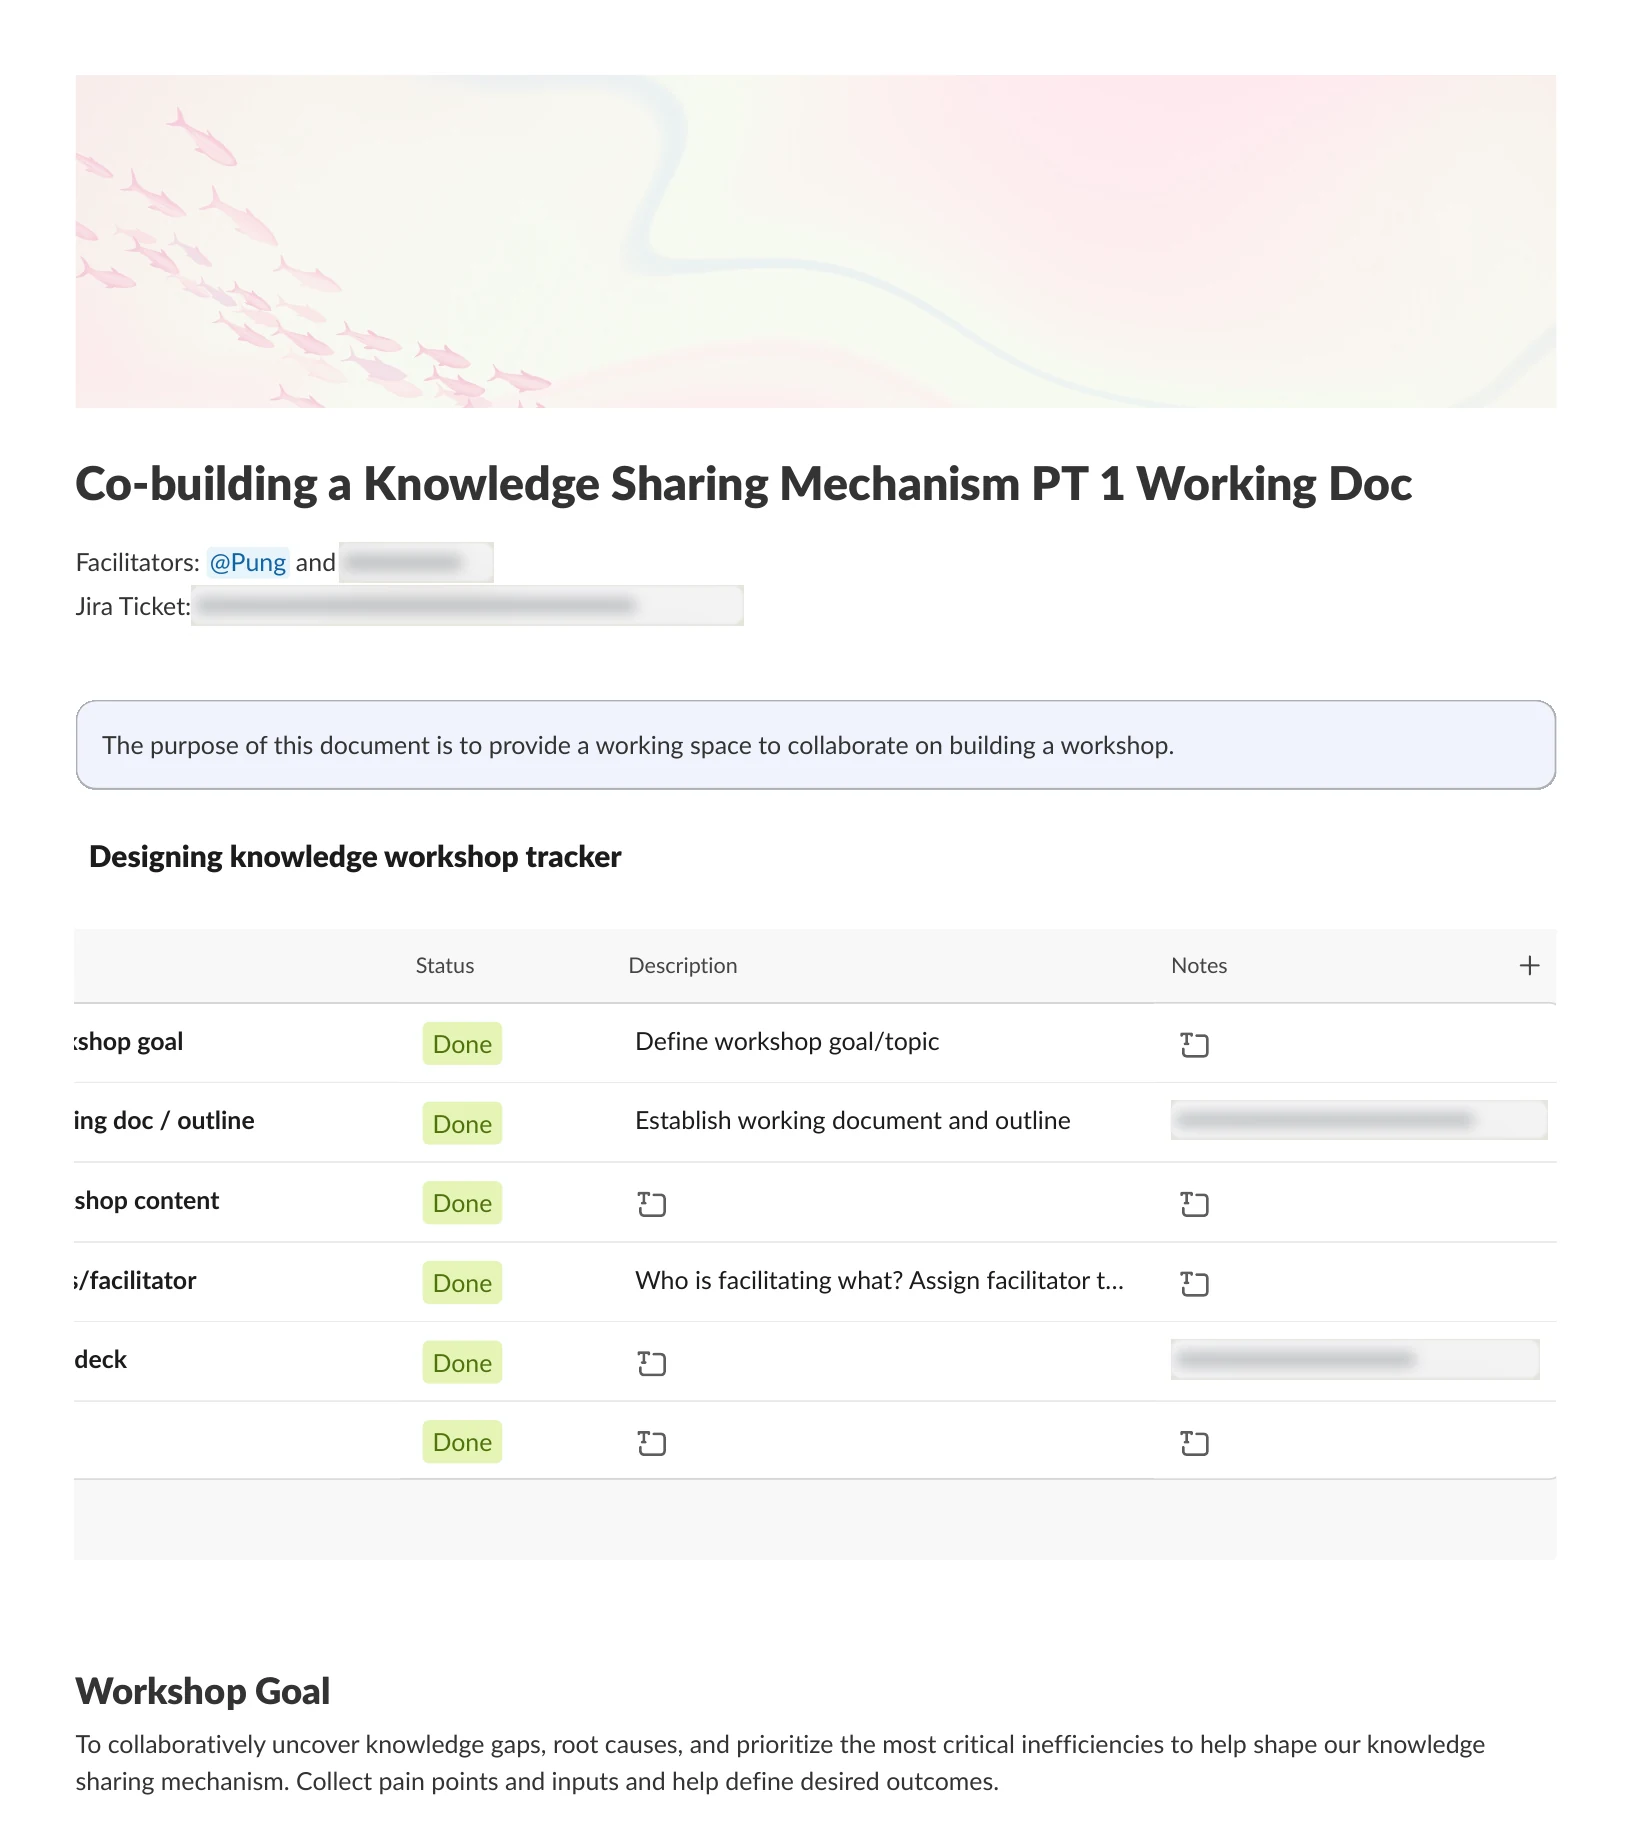
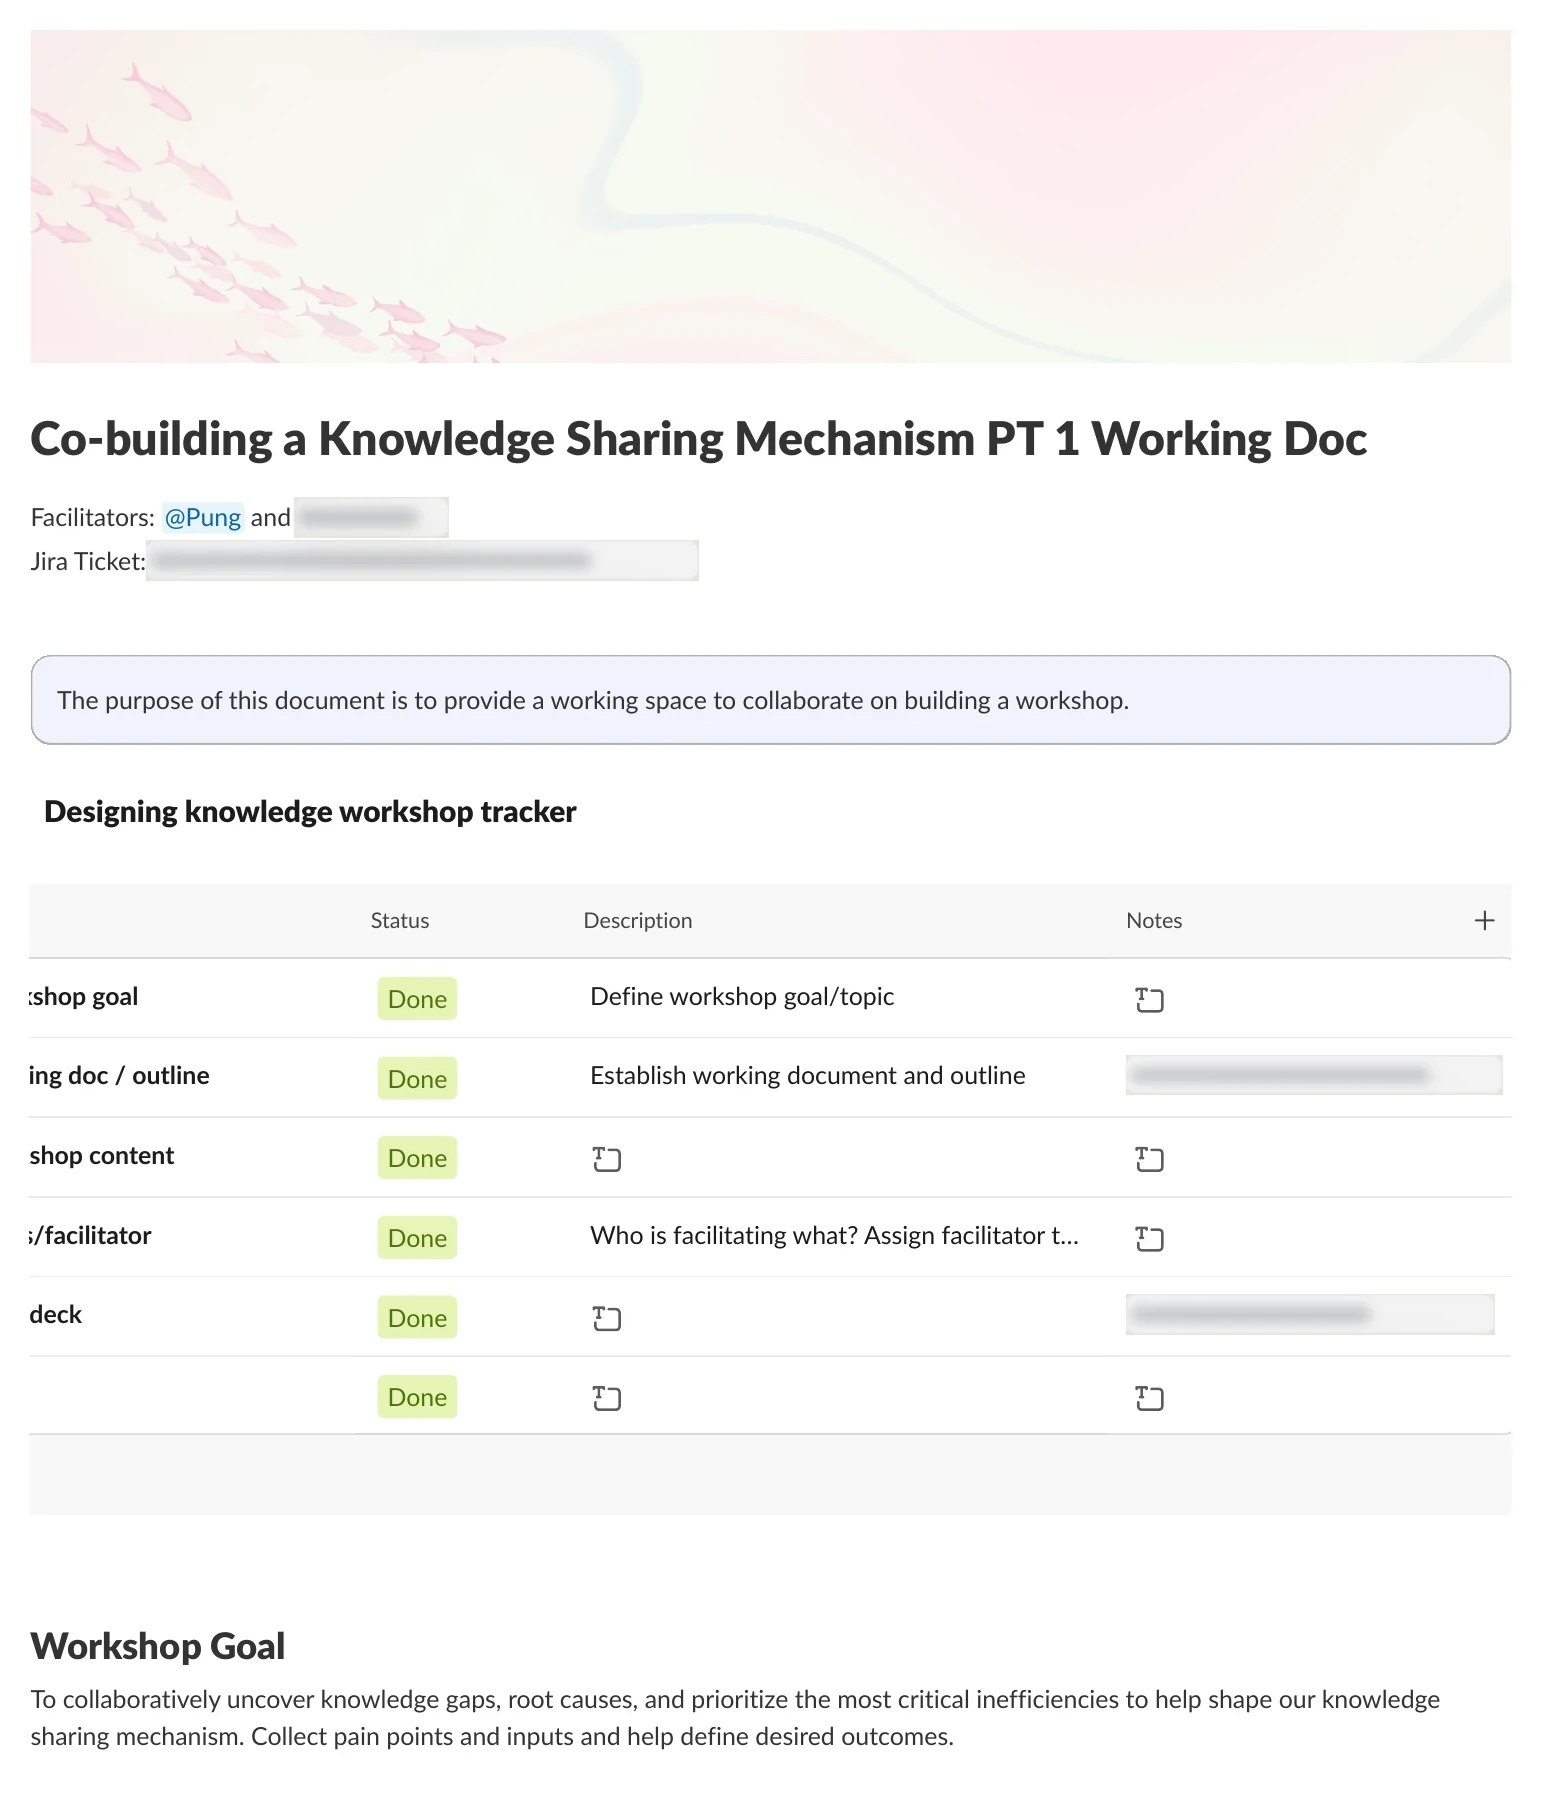
Frame document screenshots as Slack canvas windows
Claude-Session: https://claude.ai/code/session_01HAnvLrxAh4Wznvy4Cj8Sx4

diff --git a/src/styles/global.css b/src/styles/global.css
@@ -448,6 +448,70 @@ a.external::after {
 }
 .visual--inline img { max-width: var(--measure); }
 
+/* Document screenshots (Slack canvases) sit in an app window with a title bar and a white
+   page, so they read as documents rather than UI. The page is an excerpt: it is capped in height
+   and fades out at the bottom, the way a document continues below the fold. */
+.doc {
+  width: 100%;
+  margin-inline: auto;
+  overflow: hidden;
+  border-radius: 12px;
+  background: #fff;
+  box-shadow: 0 0 0 1px rgba(22, 22, 22, 0.08), 0 30px 60px -30px rgba(20, 20, 50, 0.45);
+}
+.doc__bar {
+  display: flex;
+  align-items: center;
+  gap: 14px;
+  padding: 10px 16px;
+  border-bottom: 1px solid rgba(22, 22, 22, 0.08);
+  background: #f4f3f1;
+  font-size: 0.75rem;
+  line-height: 1.3;
+  color: rgba(22, 22, 22, 0.72);
+}
+.doc__dots { display: flex; flex: none; gap: 6px; }
+.doc__dots i { width: 10px; height: 10px; border-radius: 50%; background: #d9d7d3; }
+.doc__title {
+  display: flex;
+  align-items: center;
+  gap: 8px;
+  min-width: 0;
+  font-weight: 600;
+  color: var(--ink);
+}
+.doc__title::before {
+  content: "";
+  flex: none;
+  width: 12px;
+  height: 15px;
+  border-radius: 2px;
+  background: linear-gradient(#fff 0 0) 3px 4px / 6px 1.5px no-repeat,
+    linear-gradient(#fff 0 0) 3px 7.5px / 6px 1.5px no-repeat,
+    linear-gradient(#fff 0 0) 3px 11px / 4px 1.5px no-repeat, #4a6cf7;
+}
+.doc__title span { overflow: hidden; white-space: nowrap; text-overflow: ellipsis; }
+.doc__app { flex: none; margin-left: auto; font-family: var(--font-mono); font-size: 0.6875rem; }
+.doc__page {
+  position: relative;
+  max-height: 860px;
+  overflow: hidden;
+  padding: clamp(12px, 4%, 40px) clamp(12px, 5%, 56px) 0;
+}
+.doc__page::after {
+  content: "";
+  position: absolute;
+  inset: auto 0 0;
+  height: 90px;
+  background: linear-gradient(rgba(255, 255, 255, 0), #fff);
+}
+.visual .doc__page img { border-radius: 0; box-shadow: none; max-width: none; }
+@media (max-width: 599px) {
+  .doc__app { display: none; }
+  .doc__page { max-height: 520px; padding: 8px 6px 0; }
+  .doc__page::after { height: 60px; }
+}
+
 .visual figcaption {
   max-width: var(--measure);
   margin-inline: auto;

diff --git a/src/content/projects/04-zenni-working-docs.md b/src/content/projects/04-zenni-working-docs.md
@@ -104,14 +104,20 @@ I turned those canvases into a template the team could adopt. The idea was to gi
 Putting the purpose, background and tenets first made the understanding part of a problem hard to skip.
 
 <figure class="visual visual--wide">
-<img src="/images/work/zenni-order-tracking/working-doc-canvas.webp" alt="The Enhanced Order Tracking UX Working Doc in Slack: a header illustration of glasses moving from lab to box to home, the purpose of the document, background with the squad's vision, and the UX tenets." loading="lazy" />
+<div class="doc">
+<div class="doc__bar" aria-hidden="true"><span class="doc__dots"><i></i><i></i><i></i></span><span class="doc__title"><span>WebEx: Enhanced Order Tracking UX Working Doc</span></span><span class="doc__app">Slack canvas</span></div>
+<div class="doc__page"><img src="/images/work/zenni-order-tracking/working-doc-canvas.webp" alt="The Enhanced Order Tracking UX Working Doc in Slack: a header illustration of glasses moving from lab to box to home, the purpose of the document, background with the squad's vision, and the UX tenets." loading="lazy" /></div>
+</div>
 <figcaption>The Order Tracking UX working doc, built from the template. Names are hidden.</figcaption>
 </figure>
 
 The same structure stretched to very different work. <a href="/work/zenni-order-tracking/">Order Tracking</a> used it for a launch: the working doc, the design jam and its follow-up, the messaging framework and a recorded prototype walkthrough. Multi-Profile Shopping used it for an idea that was little more than a goal, and the doc turned it into a north star, working tenets, and two tracks of UX work with desired outcomes, metrics and the evidence of success we’d look for.
 
 <figure class="visual">
-<img style="max-width: 720px" src="/images/work/zenni-account/multi-profile-canvas.webp" alt="The Multi-Profile Shopping working doc: a dual-track UX strategy, and a table for Track 1, validate customer demand through labeling, with focus areas Organization, Workflow Efficiency and Business Value, each with a desired outcome, KPIs and evidence of success." loading="lazy" />
+<div class="doc" style="max-width: 720px">
+<div class="doc__bar" aria-hidden="true"><span class="doc__dots"><i></i><i></i><i></i></span><span class="doc__title"><span>Multi-Profile Shopping</span></span><span class="doc__app">Slack canvas</span></div>
+<div class="doc__page"><img src="/images/work/zenni-account/multi-profile-canvas.webp" alt="The Multi-Profile Shopping working doc: a dual-track UX strategy, and a table for Track 1, validate customer demand through labeling, with focus areas Organization, Workflow Efficiency and Business Value, each with a desired outcome, KPIs and evidence of success." loading="lazy" /></div>
+</div>
 <figcaption>The template on an early, ambiguous idea: Multi-Profile Shopping, 2026.</figcaption>
 </figure>
 
@@ -122,7 +128,10 @@ Adoption was the hard part, not the template.
 Before asking anyone else to change, I wanted to understand what the team actually struggled with. I co-facilitated a workshop with a UX colleague to co-build a knowledge sharing mechanism with the team, instead of handing one down. We introduced what a mechanism is, a tool plus adoption, inspection and iteration, then collected pain points, dug into the top ones with Five Whys, and sorted them into major time sinks and quick wins.
 
 <figure class="visual visual--wide">
-<img src="/images/work/zenni-working-docs/knowledge-workshop-canvas.webp" alt="The Co-building a Knowledge Sharing Mechanism PT 1 Working Doc in Slack: facilitators, the purpose of the document, a workshop tracker with every task marked Done, the workshop goal, and the start of the agenda." loading="lazy" />
+<div class="doc">
+<div class="doc__bar" aria-hidden="true"><span class="doc__dots"><i></i><i></i><i></i></span><span class="doc__title"><span>Co-building a Knowledge Sharing Mechanism PT 1 Working Doc</span></span><span class="doc__app">Slack canvas</span></div>
+<div class="doc__page"><img src="/images/work/zenni-working-docs/knowledge-workshop-canvas.webp" alt="The Co-building a Knowledge Sharing Mechanism PT 1 Working Doc in Slack: facilitators, the purpose of the document, a workshop tracker with every task marked Done, the workshop goal, and the start of the agenda." loading="lazy" /></div>
+</div>
 <figcaption>The workshop was planned in a working doc of its own, late 2025. Names and links are hidden.</figcaption>
 </figure>
 
@@ -145,7 +154,10 @@ The same habit, on a bigger question.
 The reorganization came from leadership wanting to replace squads with teams organized by delivery speed. I wrote a discussion starter for the UX team and D2C leaders on organizing designers by strategic domain instead. It said up front what it was, a discussion starter, and what it was not, a proposal to throw away our current structure. Peer reviewers added their thinking directly in the doc. Writing the argument out, in the open, is how I bring people along before asking them to agree.
 
 <figure class="visual visual--wide">
-<img src="/images/work/zenni-working-docs/org-discussion-canvas.webp" alt="The UX Organization Discussion: Optimizing Velocity via Strategic Domains canvas: author Pung Brooks, audience UX team and D2C leaders, stakeholders, peer reviewers, and the lines what this document is, a discussion starter, and what it is not, a proposal to throw away our current structure." loading="lazy" />
+<div class="doc">
+<div class="doc__bar" aria-hidden="true"><span class="doc__dots"><i></i><i></i><i></i></span><span class="doc__title"><span>UX Organization Discussion: Optimizing Velocity via Strategic Domains</span></span><span class="doc__app">Slack canvas</span></div>
+<div class="doc__page"><img src="/images/work/zenni-working-docs/org-discussion-canvas.webp" alt="The UX Organization Discussion: Optimizing Velocity via Strategic Domains canvas: author Pung Brooks, audience UX team and D2C leaders, stakeholders, peer reviewers, and the lines what this document is, a discussion starter, and what it is not, a proposal to throw away our current structure." loading="lazy" /></div>
+</div>
 <figcaption>A discussion starter written for the UX team and D2C leaders. Names are hidden.</figcaption>
 </figure>
 

diff --git a/src/content/projects/03-zenni-order-tracking.md b/src/content/projects/03-zenni-order-tracking.md
@@ -129,7 +129,10 @@ Before designing, I ran “The 20-Minute Order Tracking Design Jam”. The promp
 Ten teammates took part. The follow-up lived in a Slack canvas too: the goal, everyone’s sketches side by side, and an affinity map that grouped the ideas into four themes: information hierarchy and clarity, brand voice and delight, transparency and proactive communication, and friction in the interface. It also kept the open questions in view, like whether people care that something is en route to a distribution center, and how we talk about China.
 
 <figure class="visual">
-<img style="max-width: 640px" src="/images/work/zenni-order-tracking/design-jam-canvas.webp" alt="The Order Tracking UX Jam canvas in Slack: the goal of crowdsourcing the team's mental models of an ideal order tracking experience, the date October 14, 2025, and a Figma board with each participant's tracker sketches in a grid." loading="lazy" />
+<div class="doc" style="max-width: 640px">
+<div class="doc__bar" aria-hidden="true"><span class="doc__dots"><i></i><i></i><i></i></span><span class="doc__title"><span>Order Tracking UX Jam</span></span><span class="doc__app">Slack canvas</span></div>
+<div class="doc__page"><img src="/images/work/zenni-order-tracking/design-jam-canvas.webp" alt="The Order Tracking UX Jam canvas in Slack: the goal of crowdsourcing the team's mental models of an ideal order tracking experience, the date October 14, 2025, and a Figma board with each participant's tracker sketches in a grid." loading="lazy" /></div>
+</div>
 <figcaption>The design jam’s follow-up canvas, October 2025. Participant names are hidden.</figcaption>
 </figure>
 
